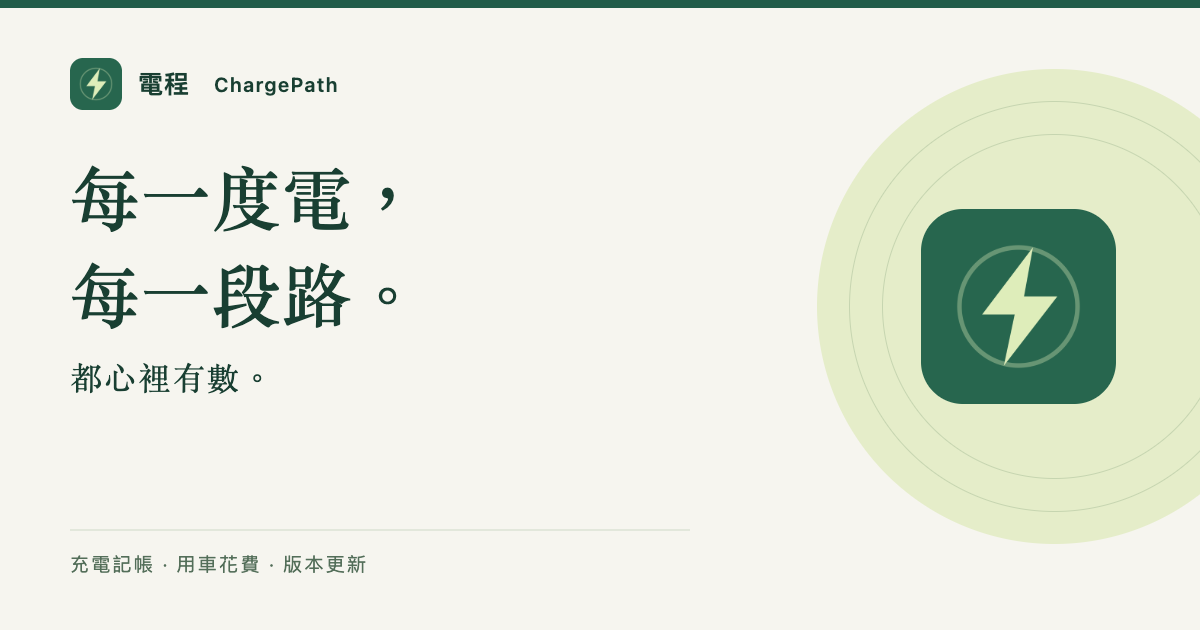
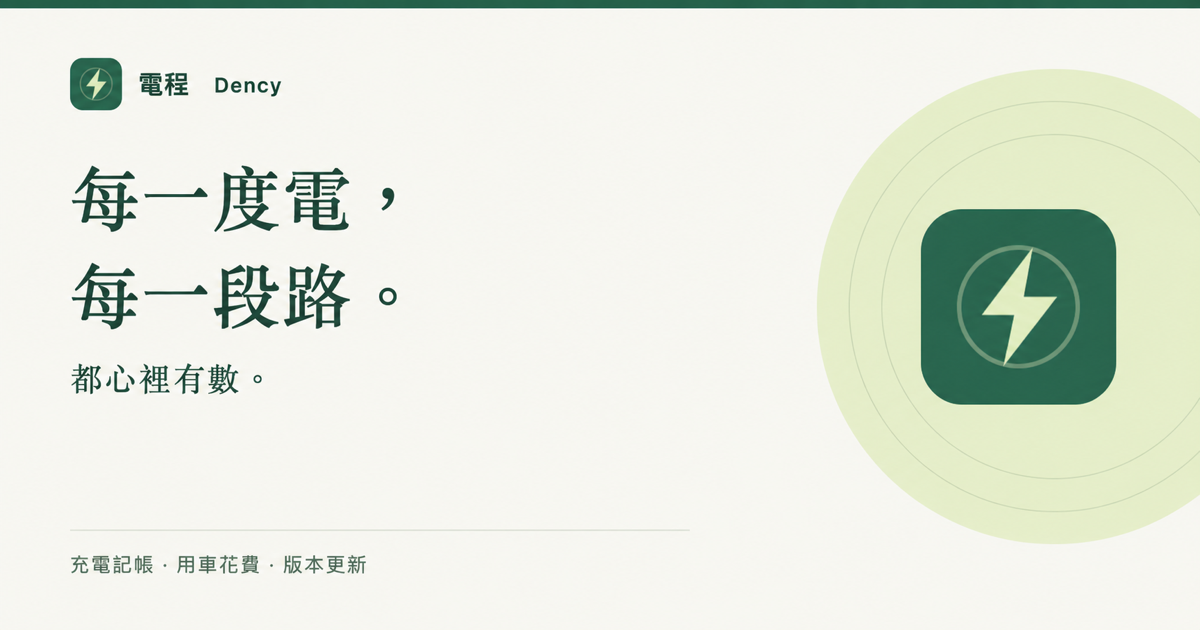
docs: rename support site brand to Dency

diff --git a/index.html b/index.html
@@ -4,21 +4,21 @@
   <meta charset="utf-8">
   <meta name="viewport" content="width=device-width, initial-scale=1">
   <meta name="theme-color" content="#215c49">
-  <meta name="description" content="電程 ChargePath，專為電動車生活打造的記帳 App。輕鬆記錄充電與用車花費，前往 App Store 下載，讓每一段路都心裡有數。">
-  <title>電程 ChargePath｜電動車生活的隨身帳本</title>
-  <meta property="og:title" content="電程 ChargePath｜電動車生活的隨身帳本">
+  <meta name="description" content="電程 Dency，專為電動車生活打造的記帳 App。輕鬆記錄充電與用車花費，前往 App Store 下載，讓每一段路都心裡有數。">
+  <title>電程 Dency｜電動車生活的隨身帳本</title>
+  <meta property="og:title" content="電程 Dency｜電動車生活的隨身帳本">
   <meta property="og:description" content="記錄充電與用車花費，讓每一段路，都心裡有數。立即前往 App Store 下載。">
   <meta property="og:image" content="https://amonstudioapp.github.io/chargepath-support/assets/chargepath-share-v1.png">
   <meta property="og:image:secure_url" content="https://amonstudioapp.github.io/chargepath-support/assets/chargepath-share-v1.png">
   <meta property="og:image:type" content="image/png">
   <meta property="og:image:width" content="1200">
   <meta property="og:image:height" content="630">
-  <meta property="og:image:alt" content="電程 ChargePath：每一度電，每一段路，都心裡有數。">
-  <meta property="og:site_name" content="電程 ChargePath">
+  <meta property="og:image:alt" content="電程 Dency：每一度電，每一段路，都心裡有數。">
+  <meta property="og:site_name" content="電程 Dency">
   <meta property="og:locale" content="zh_TW">
   <meta name="twitter:card" content="summary_large_image">
   <meta name="twitter:image" content="https://amonstudioapp.github.io/chargepath-support/assets/chargepath-share-v1.png">
-  <meta name="twitter:image:alt" content="電程 ChargePath：每一度電，每一段路，都心裡有數。">
+  <meta name="twitter:image:alt" content="電程 Dency：每一度電，每一段路，都心裡有數。">
   <meta property="og:url" content="https://amonstudioapp.github.io/chargepath-support/">
   <meta property="og:type" content="website">
   <link rel="canonical" href="https://amonstudioapp.github.io/chargepath-support/">
@@ -30,7 +30,7 @@
 <body class="home-page">
   <a class="skip" href="#main">跳至主要內容</a>
   <header class="header wrap">
-    <a class="brand" href="./" aria-label="電程 ChargePath 支援首頁"><img src="assets/app-icon.png" width="44" height="44" alt=""><span>電程 <span class="wordmark">ChargePath</span></span></a>
+    <a class="brand" href="./" aria-label="電程 Dency 支援首頁"><img src="assets/app-icon.png" width="44" height="44" alt=""><span>電程 <span class="wordmark">Dency</span></span></a>
     <nav aria-label="主要導覽"><a href="updates/">版本更新</a><a href="#faq">常見問題</a><a href="#contact">聯絡我們</a><a class="nav-download" href="https://apps.apple.com/tw/app/id6809342215" aria-label="在 App Store 下載電程">下載 App <span aria-hidden="true">↗</span></a></nav>
   </header>
   <main id="main">
@@ -38,9 +38,9 @@
       <div class="download-copy">
         <p class="eyebrow">YOUR EVERYDAY EV COMPANION</p>
         <h1 id="hero-title">讓每一段路，<br>都心裡有數。</h1>
-        <p class="download-intro">電程 ChargePath 是一款專為電動車生活打造的記帳 App，讓充電與用車花費的紀錄變得簡單直覺，陪你輕鬆掌握日常開銷。</p>
+        <p class="download-intro">電程 Dency 是一款專為電動車生活打造的記帳 App，讓充電與用車花費的紀錄變得簡單直覺，陪你輕鬆掌握日常開銷。</p>
         <div class="download-actions">
-          <a class="store-download" href="https://apps.apple.com/tw/app/id6809342215" aria-label="在 App Store 下載電程 ChargePath">
+          <a class="store-download" href="https://apps.apple.com/tw/app/id6809342215" aria-label="在 App Store 下載電程 Dency">
             <svg width="24" height="30" viewBox="0 0 24 30" fill="none" aria-hidden="true"><rect x="3" y="1" width="18" height="28" rx="4" stroke="currentColor" stroke-width="1.6"/><path d="M9 5h6M10 25h4M12 10v9m-4-4 4 4 4-4" stroke="currentColor" stroke-width="1.6" stroke-linecap="round" stroke-linejoin="round"/></svg>
             <span><span class="store-kicker">立即下載電程</span><span class="store-name">前往 App Store</span></span><span class="store-arrow" aria-hidden="true">↗</span>
           </a>
@@ -51,7 +51,7 @@
       </div>
       <figure class="app-preview">
         <div class="preview-orbit" aria-hidden="true"></div>
-        <div class="preview-brand"><img src="assets/app-icon.png" width="42" height="42" alt=""><div>電程<span>ChargePath</span></div></div>
+        <div class="preview-brand"><img src="assets/app-icon.png" width="42" height="42" alt=""><div>電程<span>Dency</span></div></div>
         <div class="phone-preview"><img src="assets/app-overview.png" width="1206" height="2622" alt="電程 App 總覽：本月支出、充電量與預算集中顯示，畫面使用示範資料。" fetchpriority="high"></div>
         <figcaption>用車日常，一眼掌握。</figcaption>
       </figure>
@@ -114,6 +114,6 @@
       <div><ol><li>你遇到的問題，以及操作步驟</li><li>預期的結果，以及實際發生的情況</li><li>電程版本、iOS 版本與 iPhone 機型</li><li>必要時附上已遮蔽個人資料的截圖</li></ol><p class="muted">請勿寄送密碼、完整信用卡資料或不必要的完整帳本。</p><a class="text-link" href="mailto:amonstudioapp@gmail.com">寄信至 amonstudioapp@gmail.com ↗</a></div>
     </section>
   </main>
-  <footer class="footer wrap"><a class="brand" href="./">電程 <span class="wordmark">ChargePath</span></a><p>每一度電，每一段路，都心裡有數。</p><div><a href="privacy.html">隱私權政策</a><a href="https://www.apple.com/legal/internet-services/itunes/dev/stdeula/">使用條款</a><a href="mailto:amonstudioapp@gmail.com">聯絡我們</a></div><small>© 2026 電程 ChargePath</small></footer>
+  <footer class="footer wrap"><a class="brand" href="./">電程 <span class="wordmark">Dency</span></a><p>每一度電，每一段路，都心裡有數。</p><div><a href="privacy.html">隱私權政策</a><a href="https://www.apple.com/legal/internet-services/itunes/dev/stdeula/">使用條款</a><a href="mailto:amonstudioapp@gmail.com">聯絡我們</a></div><small>© 2026 電程 Dency</small></footer>
 </body>
 </html>

diff --git a/updates/index.html b/updates/index.html
@@ -4,9 +4,9 @@
   <meta charset="utf-8">
   <meta name="viewport" content="width=device-width, initial-scale=1">
   <meta name="theme-color" content="#215c49">
-  <meta name="description" content="電程 ChargePath 更新日誌。看看每一次更新帶來的新功能、體驗改善與修正，讓充電記帳與用車生活更從容。">
+  <meta name="description" content="電程 Dency 更新日誌。看看每一次更新帶來的新功能、體驗改善與修正，讓充電記帳與用車生活更從容。">
   <meta property="og:type" content="website">
-  <meta property="og:title" content="更新日誌｜電程 ChargePath">
+  <meta property="og:title" content="更新日誌｜電程 Dency">
   <meta property="og:description" content="每一次更新，讓用車更從容。閱讀電程各版本的新功能與完整更新說明。">
   <meta property="og:url" content="https://amonstudioapp.github.io/chargepath-support/updates/">
   <meta property="og:image" content="https://amonstudioapp.github.io/chargepath-support/assets/updates/1.1.0-v1.png">
@@ -14,13 +14,13 @@
   <meta property="og:image:type" content="image/png">
   <meta property="og:image:width" content="1200">
   <meta property="og:image:height" content="630">
-  <meta property="og:image:alt" content="電程 ChargePath 版本更新 1.1.0">
-  <meta property="og:site_name" content="電程 ChargePath">
+  <meta property="og:image:alt" content="電程 Dency 版本更新 1.1.0">
+  <meta property="og:site_name" content="電程 Dency">
   <meta property="og:locale" content="zh_TW">
   <meta name="twitter:card" content="summary_large_image">
   <meta name="twitter:image" content="https://amonstudioapp.github.io/chargepath-support/assets/updates/1.1.0-v1.png">
-  <meta name="twitter:image:alt" content="電程 ChargePath 版本更新 1.1.0">
-  <title>更新日誌｜電程 ChargePath</title>
+  <meta name="twitter:image:alt" content="電程 Dency 版本更新 1.1.0">
+  <title>更新日誌｜電程 Dency</title>
   <link rel="canonical" href="https://amonstudioapp.github.io/chargepath-support/updates/">
   <link rel="icon" href="../assets/app-icon.png">
   <link rel="stylesheet" href="../styles.css">
@@ -30,16 +30,16 @@
 <body class="updates-page">
   <a class="skip" href="#main">跳至主要內容</a>
   <header class="header wrap">
-    <a class="brand" href="../" aria-label="電程 ChargePath 支援首頁"><img src="../assets/app-icon.png" width="44" height="44" alt=""><span>電程 <span class="wordmark">ChargePath</span></span></a>
+    <a class="brand" href="../" aria-label="電程 Dency 支援首頁"><img src="../assets/app-icon.png" width="44" height="44" alt=""><span>電程 <span class="wordmark">Dency</span></span></a>
     <nav aria-label="主要導覽"><a href="./" aria-current="page">版本更新</a><a href="../#faq">常見問題</a><a href="../privacy.html">隱私權</a></nav>
   </header>
   <main id="main" class="wrap">
     <section class="journal-intro" aria-labelledby="journal-title">
-      <div><p class="eyebrow">THE CHARGEPATH JOURNAL</p><h1 id="journal-title">每一次更新，<br>讓用車更從容。</h1></div>
+      <div><p class="eyebrow">THE DENCY JOURNAL</p><h1 id="journal-title">每一次更新，<br>讓用車更從容。</h1></div>
       <div class="journal-letter"><span class="letter-line" aria-hidden="true"></span><p>從第一筆充電，到每一天的用車日常，<br class="desktop-break">電程持續把細節做好。</p><p>新功能、體驗改善與修正，<br class="desktop-break">都在這裡，慢慢累積。</p><a class="text-link" href="#all-releases">瀏覽所有版本 <span aria-hidden="true">↓</span></a></div>
     </section>
     <section class="latest-release" aria-labelledby="latest-title">
-      <div class="release-edition"><span class="edition-label">最新版本</span><div><span class="edition-caption">CHARGEPATH</span><p class="edition-number">1.1.0</p></div><span class="edition-date">2026 年 10 月 5 日</span></div>
+      <div class="release-edition"><span class="edition-label">最新版本</span><div><span class="edition-caption">DENCY</span><p class="edition-number">1.1.0</p></div><span class="edition-date">2026 年 10 月 5 日</span></div>
       <div class="latest-copy"><p class="eyebrow">WHAT’S NEW</p><h2 id="latest-title">充電記帳與用車分析，更完整了。</h2><p class="latest-summary">電程 1.1.0，讓充電記帳與用車分析更完整。</p><a class="button" href="./1.1.0/">閱讀完整更新 <span aria-hidden="true">↗</span></a></div>
     </section>
     <div class="highlights latest-highlights"><div class="highlight"><span class="highlight-number">01</span><h3>截圖，批次變成紀錄</h3><p>一次整理多張充電截圖，辨識後逐筆核對，減少重複輸入。</p></div>
@@ -52,6 +52,6 @@
     </section>
     <aside class="feedback-note"><p class="eyebrow">MADE BETTER, TOGETHER</p><h2>你的日常，是我們改進的方向。</h2><p>有期待的功能，或使用上不順手的地方？<a href="../#contact">和我們聊聊 <span aria-hidden="true">↗</span></a></p></aside>
   </main>
-  <footer class="footer wrap"><a class="brand" href="../">電程 <span class="wordmark">ChargePath</span></a><p>每一度電，每一段路，都心裡有數。</p><div><a href="../">支援中心</a><a href="../privacy.html">隱私權政策</a><a href="mailto:amonstudioapp@gmail.com">聯絡我們</a></div><small>© 2026 電程 ChargePath</small></footer>
+  <footer class="footer wrap"><a class="brand" href="../">電程 <span class="wordmark">Dency</span></a><p>每一度電，每一段路，都心裡有數。</p><div><a href="../">支援中心</a><a href="../privacy.html">隱私權政策</a><a href="mailto:amonstudioapp@gmail.com">聯絡我們</a></div><small>© 2026 電程 Dency</small></footer>
 </body>
 </html>

diff --git a/templates/updates-index.html b/templates/updates-index.html
@@ -4,9 +4,9 @@
   <meta charset="utf-8">
   <meta name="viewport" content="width=device-width, initial-scale=1">
   <meta name="theme-color" content="#215c49">
-  <meta name="description" content="電程 ChargePath 更新日誌。看看每一次更新帶來的新功能、體驗改善與修正，讓充電記帳與用車生活更從容。">
+  <meta name="description" content="電程 Dency 更新日誌。看看每一次更新帶來的新功能、體驗改善與修正，讓充電記帳與用車生活更從容。">
   <meta property="og:type" content="website">
-  <meta property="og:title" content="更新日誌｜電程 ChargePath">
+  <meta property="og:title" content="更新日誌｜電程 Dency">
   <meta property="og:description" content="每一次更新，讓用車更從容。閱讀電程各版本的新功能與完整更新說明。">
   <meta property="og:url" content="https://amonstudioapp.github.io/chargepath-support/updates/">
   <meta property="og:image" content="https://amonstudioapp.github.io/chargepath-support/assets/updates/$latest_version-v1.png">
@@ -14,13 +14,13 @@
   <meta property="og:image:type" content="image/png">
   <meta property="og:image:width" content="1200">
   <meta property="og:image:height" content="630">
-  <meta property="og:image:alt" content="電程 ChargePath 版本更新 $latest_version">
-  <meta property="og:site_name" content="電程 ChargePath">
+  <meta property="og:image:alt" content="電程 Dency 版本更新 $latest_version">
+  <meta property="og:site_name" content="電程 Dency">
   <meta property="og:locale" content="zh_TW">
   <meta name="twitter:card" content="summary_large_image">
   <meta name="twitter:image" content="https://amonstudioapp.github.io/chargepath-support/assets/updates/$latest_version-v1.png">
-  <meta name="twitter:image:alt" content="電程 ChargePath 版本更新 $latest_version">
-  <title>更新日誌｜電程 ChargePath</title>
+  <meta name="twitter:image:alt" content="電程 Dency 版本更新 $latest_version">
+  <title>更新日誌｜電程 Dency</title>
   <link rel="canonical" href="https://amonstudioapp.github.io/chargepath-support/updates/">
   <link rel="icon" href="../assets/app-icon.png">
   <link rel="stylesheet" href="../styles.css">
@@ -30,16 +30,16 @@
 <body class="updates-page">
   <a class="skip" href="#main">跳至主要內容</a>
   <header class="header wrap">
-    <a class="brand" href="../" aria-label="電程 ChargePath 支援首頁"><img src="../assets/app-icon.png" width="44" height="44" alt=""><span>電程 <span class="wordmark">ChargePath</span></span></a>
+    <a class="brand" href="../" aria-label="電程 Dency 支援首頁"><img src="../assets/app-icon.png" width="44" height="44" alt=""><span>電程 <span class="wordmark">Dency</span></span></a>
     <nav aria-label="主要導覽"><a href="./" aria-current="page">版本更新</a><a href="../#faq">常見問題</a><a href="../privacy.html">隱私權</a></nav>
   </header>
   <main id="main" class="wrap">
     <section class="journal-intro" aria-labelledby="journal-title">
-      <div><p class="eyebrow">THE CHARGEPATH JOURNAL</p><h1 id="journal-title">每一次更新，<br>讓用車更從容。</h1></div>
+      <div><p class="eyebrow">THE DENCY JOURNAL</p><h1 id="journal-title">每一次更新，<br>讓用車更從容。</h1></div>
       <div class="journal-letter"><span class="letter-line" aria-hidden="true"></span><p>從第一筆充電，到每一天的用車日常，<br class="desktop-break">電程持續把細節做好。</p><p>新功能、體驗改善與修正，<br class="desktop-break">都在這裡，慢慢累積。</p><a class="text-link" href="#all-releases">瀏覽所有版本 <span aria-hidden="true">↓</span></a></div>
     </section>
     <section class="latest-release" aria-labelledby="latest-title">
-      <div class="release-edition"><span class="edition-label">最新版本</span><div><span class="edition-caption">CHARGEPATH</span><p class="edition-number">$latest_version</p></div><span class="edition-date">$latest_date</span></div>
+      <div class="release-edition"><span class="edition-label">最新版本</span><div><span class="edition-caption">DENCY</span><p class="edition-number">$latest_version</p></div><span class="edition-date">$latest_date</span></div>
       <div class="latest-copy"><p class="eyebrow">WHAT’S NEW</p><h2 id="latest-title">$latest_title</h2><p class="latest-summary">$latest_summary</p><a class="button" href="$latest_url">閱讀完整更新 <span aria-hidden="true">↗</span></a></div>
     </section>
     <div class="highlights latest-highlights">$latest_highlights</div>
@@ -49,6 +49,6 @@
     </section>
     <aside class="feedback-note"><p class="eyebrow">MADE BETTER, TOGETHER</p><h2>你的日常，是我們改進的方向。</h2><p>有期待的功能，或使用上不順手的地方？<a href="../#contact">和我們聊聊 <span aria-hidden="true">↗</span></a></p></aside>
   </main>
-  <footer class="footer wrap"><a class="brand" href="../">電程 <span class="wordmark">ChargePath</span></a><p>每一度電，每一段路，都心裡有數。</p><div><a href="../">支援中心</a><a href="../privacy.html">隱私權政策</a><a href="mailto:amonstudioapp@gmail.com">聯絡我們</a></div><small>© 2026 電程 ChargePath</small></footer>
+  <footer class="footer wrap"><a class="brand" href="../">電程 <span class="wordmark">Dency</span></a><p>每一度電，每一段路，都心裡有數。</p><div><a href="../">支援中心</a><a href="../privacy.html">隱私權政策</a><a href="mailto:amonstudioapp@gmail.com">聯絡我們</a></div><small>© 2026 電程 Dency</small></footer>
 </body>
 </html>

diff --git a/privacy.html b/privacy.html
@@ -4,20 +4,20 @@
   <meta charset="utf-8">
   <meta name="viewport" content="width=device-width, initial-scale=1">
   <meta name="theme-color" content="#215c49">
-  <meta name="description" content="電程 ChargePath 隱私權政策：本機帳本、iCloud、共同管理、截圖辨識、訂閱與問題回報的資料處理說明。">
-  <title>隱私權政策｜電程 ChargePath</title>
+  <meta name="description" content="電程 Dency 隱私權政策：本機帳本、iCloud、共同管理、截圖辨識、訂閱與問題回報的資料處理說明。">
+  <title>隱私權政策｜電程 Dency</title>
   <link rel="icon" href="assets/app-icon.png">
   <link rel="stylesheet" href="styles.css">
   <link rel="stylesheet" href="updates.css">
 </head>
 <body>
   <a class="skip" href="#main">跳至主要內容</a>
-  <header class="header wrap"><a class="brand" href="./" aria-label="電程 ChargePath 支援首頁"><img src="assets/app-icon.png" width="44" height="44" alt=""><span>電程 <span class="wordmark">ChargePath</span></span></a><nav aria-label="主要導覽"><a href="updates/">版本更新</a><a href="./#faq">常見問題</a><a href="privacy.html" aria-current="page">隱私權</a><a href="./#contact">聯絡我們</a></nav></header>
+  <header class="header wrap"><a class="brand" href="./" aria-label="電程 Dency 支援首頁"><img src="assets/app-icon.png" width="44" height="44" alt=""><span>電程 <span class="wordmark">Dency</span></span></a><nav aria-label="主要導覽"><a href="updates/">版本更新</a><a href="./#faq">常見問題</a><a href="privacy.html" aria-current="page">隱私權</a><a href="./#contact">聯絡我們</a></nav></header>
   <main id="main" class="policy wrap">
     <a class="back" href="./">← 返回支援中心</a>
     <p class="eyebrow">YOUR DATA, YOUR CHOICE</p>
     <h1>隱私權政策</h1>
-    <p>電程 ChargePath · 更新日期：2026 年 9 月 26 日</p>
+    <p>電程 Dency · 更新日期：2026 年 9 月 26 日</p>
     <p class="lead">電程以記錄充電與用車生活為目的，不需註冊電程帳號，沒有廣告，也不使用第三方廣告追蹤或行為分析 SDK。</p>
     <div class="policy-note">你的帳本預設保存在裝置內。只有在你選擇啟用 iCloud、共同管理、匯出或寄送回饋時，相關資料才會依該功能傳送。</div>
     <section><h2>資料儲存</h2><p>你輸入的車輛、充電、支出、里程、個人稱呼與相關照片，預設儲存在裝置內，用於帳本、統計、提醒與你選擇使用的功能。</p><p>電程不會自動將帳本傳送給開發者。裝置本身的系統備份由你的 Apple 設定管理。</p></section>
@@ -31,6 +31,6 @@
     <section><h2>支援網站</h2><p>本支援網站不設登入、不使用分析或廣告追蹤程式，也不透過表單收集帳本資料。網站由 GitHub Pages 提供託管；GitHub 可能依其服務及隱私權政策處理 IP 位址等連線資訊。請參閱 <a href="https://docs.github.com/en/site-policy/privacy-policies/github-general-privacy-statement">GitHub 隱私權聲明</a>。</p></section>
     <section><h2>聯絡我們</h2><p>如對本政策或資料處理有疑問，或要提出回饋資料刪除請求，請來信：<a href="mailto:amonstudioapp@gmail.com">amonstudioapp@gmail.com</a>。</p></section>
   </main>
-  <footer class="footer wrap"><a class="brand" href="./">電程 <span class="wordmark">ChargePath</span></a><p>每一度電，每一段路，都心裡有數。</p><div><a href="./">支援中心</a><a href="https://www.apple.com/legal/internet-services/itunes/dev/stdeula/">使用條款</a><a href="mailto:amonstudioapp@gmail.com">聯絡我們</a></div><small>© 2026 電程 ChargePath</small></footer>
+  <footer class="footer wrap"><a class="brand" href="./">電程 <span class="wordmark">Dency</span></a><p>每一度電，每一段路，都心裡有數。</p><div><a href="./">支援中心</a><a href="https://www.apple.com/legal/internet-services/itunes/dev/stdeula/">使用條款</a><a href="mailto:amonstudioapp@gmail.com">聯絡我們</a></div><small>© 2026 電程 Dency</small></footer>
 </body>
 </html>

diff --git a/updates/1.1.0/index.html b/updates/1.1.0/index.html
@@ -15,12 +15,12 @@
   <meta property="og:image:type" content="image/png">
   <meta property="og:image:width" content="1200">
   <meta property="og:image:height" content="630">
-  <meta property="og:image:alt" content="電程 ChargePath 版本更新 1.1.0">
-  <meta property="og:site_name" content="電程 ChargePath">
+  <meta property="og:image:alt" content="電程 Dency 版本更新 1.1.0">
+  <meta property="og:site_name" content="電程 Dency">
   <meta property="og:locale" content="zh_TW">
   <meta name="twitter:card" content="summary_large_image">
   <meta name="twitter:image" content="https://amonstudioapp.github.io/chargepath-support/assets/updates/1.1.0-v1.png">
-  <meta name="twitter:image:alt" content="電程 ChargePath 版本更新 1.1.0">
+  <meta name="twitter:image:alt" content="電程 Dency 版本更新 1.1.0">
   <title>電程 1.1.0｜充電記帳與用車分析，更完整了。</title>
   <link rel="canonical" href="https://amonstudioapp.github.io/chargepath-support/updates/1.1.0/">
   <link rel="icon" href="../../assets/app-icon.png">
@@ -30,7 +30,7 @@
 </head>
 <body class="updates-page detail-page">
   <a class="skip" href="#main">跳至主要內容</a>
-  <header class="header wrap"><a class="brand" href="../../" aria-label="電程 ChargePath 支援首頁"><img src="../../assets/app-icon.png" width="44" height="44" alt=""><span>電程 <span class="wordmark">ChargePath</span></span></a><nav aria-label="主要導覽"><a href="../">版本更新</a><a href="../../#faq">常見問題</a><a href="../../privacy.html">隱私權</a></nav></header>
+  <header class="header wrap"><a class="brand" href="../../" aria-label="電程 Dency 支援首頁"><img src="../../assets/app-icon.png" width="44" height="44" alt=""><span>電程 <span class="wordmark">Dency</span></span></a><nav aria-label="主要導覽"><a href="../">版本更新</a><a href="../../#faq">常見問題</a><a href="../../privacy.html">隱私權</a></nav></header>
   <main id="main" class="wrap">
     <a class="back-to-journal" href="../">← 所有版本更新</a>
     <article>
@@ -41,6 +41,6 @@
     <nav class="version-navigation" aria-label="其他版本"><a href="../1.0.0/">上一個版本 · v1.0.0</a> </nav>
     <aside class="feedback-note"><p class="eyebrow">YOUR VOICE MATTERS</p><h2>一起，讓電程更好用。</h2><p>想分享使用心得，或遇到需要協助的地方？<a href="../../#contact">聯絡我們 <span aria-hidden="true">↗</span></a></p></aside>
   </main>
-  <footer class="footer wrap"><a class="brand" href="../../">電程 <span class="wordmark">ChargePath</span></a><p>每一度電，每一段路，都心裡有數。</p><div><a href="../">所有版本</a><a href="../../privacy.html">隱私權政策</a><a href="../../">支援中心</a></div><small>© 2026 電程 ChargePath</small></footer>
+  <footer class="footer wrap"><a class="brand" href="../../">電程 <span class="wordmark">Dency</span></a><p>每一度電，每一段路，都心裡有數。</p><div><a href="../">所有版本</a><a href="../../privacy.html">隱私權政策</a><a href="../../">支援中心</a></div><small>© 2026 電程 Dency</small></footer>
 </body>
 </html>

diff --git a/updates/1.0.0/index.html b/updates/1.0.0/index.html
@@ -15,12 +15,12 @@
   <meta property="og:image:type" content="image/png">
   <meta property="og:image:width" content="1200">
   <meta property="og:image:height" content="630">
-  <meta property="og:image:alt" content="電程 ChargePath 版本更新 1.0.0">
-  <meta property="og:site_name" content="電程 ChargePath">
+  <meta property="og:image:alt" content="電程 Dency 版本更新 1.0.0">
+  <meta property="og:site_name" content="電程 Dency">
   <meta property="og:locale" content="zh_TW">
   <meta name="twitter:card" content="summary_large_image">
   <meta name="twitter:image" content="https://amonstudioapp.github.io/chargepath-support/assets/updates/1.0.0-v1.png">
-  <meta name="twitter:image:alt" content="電程 ChargePath 版本更新 1.0.0">
+  <meta name="twitter:image:alt" content="電程 Dency 版本更新 1.0.0">
   <title>電程 1.0.0｜用車生活，從第一筆紀錄開始。</title>
   <link rel="canonical" href="https://amonstudioapp.github.io/chargepath-support/updates/1.0.0/">
   <link rel="icon" href="../../assets/app-icon.png">
@@ -30,7 +30,7 @@
 </head>
 <body class="updates-page detail-page">
   <a class="skip" href="#main">跳至主要內容</a>
-  <header class="header wrap"><a class="brand" href="../../" aria-label="電程 ChargePath 支援首頁"><img src="../../assets/app-icon.png" width="44" height="44" alt=""><span>電程 <span class="wordmark">ChargePath</span></span></a><nav aria-label="主要導覽"><a href="../">版本更新</a><a href="../../#faq">常見問題</a><a href="../../privacy.html">隱私權</a></nav></header>
+  <header class="header wrap"><a class="brand" href="../../" aria-label="電程 Dency 支援首頁"><img src="../../assets/app-icon.png" width="44" height="44" alt=""><span>電程 <span class="wordmark">Dency</span></span></a><nav aria-label="主要導覽"><a href="../">版本更新</a><a href="../../#faq">常見問題</a><a href="../../privacy.html">隱私權</a></nav></header>
   <main id="main" class="wrap">
     <a class="back-to-journal" href="../">← 所有版本更新</a>
     <article>
@@ -41,6 +41,6 @@
     <nav class="version-navigation" aria-label="其他版本"> <a href="../1.1.0/">下一個版本 · v1.1.0</a></nav>
     <aside class="feedback-note"><p class="eyebrow">YOUR VOICE MATTERS</p><h2>一起，讓電程更好用。</h2><p>想分享使用心得，或遇到需要協助的地方？<a href="../../#contact">聯絡我們 <span aria-hidden="true">↗</span></a></p></aside>
   </main>
-  <footer class="footer wrap"><a class="brand" href="../../">電程 <span class="wordmark">ChargePath</span></a><p>每一度電，每一段路，都心裡有數。</p><div><a href="../">所有版本</a><a href="../../privacy.html">隱私權政策</a><a href="../../">支援中心</a></div><small>© 2026 電程 ChargePath</small></footer>
+  <footer class="footer wrap"><a class="brand" href="../../">電程 <span class="wordmark">Dency</span></a><p>每一度電，每一段路，都心裡有數。</p><div><a href="../">所有版本</a><a href="../../privacy.html">隱私權政策</a><a href="../../">支援中心</a></div><small>© 2026 電程 Dency</small></footer>
 </body>
 </html>

diff --git a/templates/update-detail.html b/templates/update-detail.html
@@ -14,12 +14,12 @@
   <meta property="og:image:type" content="image/png">
   <meta property="og:image:width" content="1200">
   <meta property="og:image:height" content="630">
-  <meta property="og:image:alt" content="電程 ChargePath 版本更新 $version">
-  <meta property="og:site_name" content="電程 ChargePath">
+  <meta property="og:image:alt" content="電程 Dency 版本更新 $version">
+  <meta property="og:site_name" content="電程 Dency">
   <meta property="og:locale" content="zh_TW">
   <meta name="twitter:card" content="summary_large_image">
   <meta name="twitter:image" content="https://amonstudioapp.github.io/chargepath-support/assets/updates/$version-v1.png">
-  <meta name="twitter:image:alt" content="電程 ChargePath 版本更新 $version">
+  <meta name="twitter:image:alt" content="電程 Dency 版本更新 $version">
   <title>電程 $version｜$title</title>
   <link rel="canonical" href="$canonical">
   <link rel="icon" href="../../assets/app-icon.png">
@@ -29,7 +29,7 @@
 </head>
 <body class="updates-page detail-page">
   <a class="skip" href="#main">跳至主要內容</a>
-  <header class="header wrap"><a class="brand" href="../../" aria-label="電程 ChargePath 支援首頁"><img src="../../assets/app-icon.png" width="44" height="44" alt=""><span>電程 <span class="wordmark">ChargePath</span></span></a><nav aria-label="主要導覽"><a href="../">版本更新</a><a href="../../#faq">常見問題</a><a href="../../privacy.html">隱私權</a></nav></header>
+  <header class="header wrap"><a class="brand" href="../../" aria-label="電程 Dency 支援首頁"><img src="../../assets/app-icon.png" width="44" height="44" alt=""><span>電程 <span class="wordmark">Dency</span></span></a><nav aria-label="主要導覽"><a href="../">版本更新</a><a href="../../#faq">常見問題</a><a href="../../privacy.html">隱私權</a></nav></header>
   <main id="main" class="wrap">
     <a class="back-to-journal" href="../">← 所有版本更新</a>
     <article>
@@ -39,6 +39,6 @@
     <nav class="version-navigation" aria-label="其他版本">$previous_link $next_link</nav>
     <aside class="feedback-note"><p class="eyebrow">YOUR VOICE MATTERS</p><h2>一起，讓電程更好用。</h2><p>想分享使用心得，或遇到需要協助的地方？<a href="../../#contact">聯絡我們 <span aria-hidden="true">↗</span></a></p></aside>
   </main>
-  <footer class="footer wrap"><a class="brand" href="../../">電程 <span class="wordmark">ChargePath</span></a><p>每一度電，每一段路，都心裡有數。</p><div><a href="../">所有版本</a><a href="../../privacy.html">隱私權政策</a><a href="../../">支援中心</a></div><small>© 2026 電程 ChargePath</small></footer>
+  <footer class="footer wrap"><a class="brand" href="../../">電程 <span class="wordmark">Dency</span></a><p>每一度電，每一段路，都心裡有數。</p><div><a href="../">所有版本</a><a href="../../privacy.html">隱私權政策</a><a href="../../">支援中心</a></div><small>© 2026 電程 Dency</small></footer>
 </body>
 </html>

diff --git a/templates/share-card.html b/templates/share-card.html
@@ -3,11 +3,11 @@
 <head>
 <meta charset="utf-8">
 <meta name="viewport" content="width=device-width, initial-scale=1">
-<title>電程 ChargePath 分享圖片</title>
+<title>電程 Dency 分享圖片</title>
 <link rel="icon" href="../assets/app-icon.png">
 <style>
 *{box-sizing:border-box}html,body{margin:0;width:1200px;height:630px;overflow:hidden}body{background:#f6f5ef;color:#193f32;font-family:-apple-system,BlinkMacSystemFont,"PingFang TC",sans-serif;position:relative;padding:58px 70px}.brand{display:flex;align-items:center;gap:16px;font-size:25px;font-weight:600;letter-spacing:.04em}.brand img{width:52px;height:52px;border-radius:13px}.brand span{font-size:20px;letter-spacing:.08em;margin-left:8px}h1{font-family:"Songti TC","Noto Serif TC",serif;font-size:69px;line-height:1.4;font-weight:600;letter-spacing:.025em;margin:37px 0 14px}p{font-family:"Songti TC","Noto Serif TC",serif;font-size:32px;margin:0;letter-spacing:.07em}.meta{position:absolute;bottom:53px;left:70px;font-size:19px;letter-spacing:.12em;color:#536e59;border-top:1px solid #ced8c8;padding-top:20px;width:620px}.art{position:absolute;right:-92px;top:69px;width:475px;height:475px;border-radius:50%;background:#e5edc9;display:grid;place-items:center}.art::before,.art::after{content:"";position:absolute;inset:32px;border:1px solid #93ad8760;border-radius:50%}.art::after{inset:65px}.art img{width:195px;height:195px;border-radius:42px;margin-right:72px;position:relative;z-index:1}.line{position:absolute;left:0;top:0;width:100%;height:8px;background:#215c49}
 </style>
 </head>
-<body><div class="line"></div><div class="brand"><img src="../assets/app-icon.png" alt="">電程 <span>ChargePath</span></div><h1>每一度電，<br>每一段路。</h1><p>都心裡有數。</p><div class="meta">充電記帳 · 用車花費 · 版本更新</div><div class="art"><img src="../assets/app-icon.png" alt=""></div></body>
+<body><div class="line"></div><div class="brand"><img src="../assets/app-icon.png" alt="">電程 <span>Dency</span></div><h1>每一度電，<br>每一段路。</h1><p>都心裡有數。</p><div class="meta">充電記帳 · 用車花費 · 版本更新</div><div class="art"><img src="../assets/app-icon.png" alt=""></div></body>
 </html>

diff --git a/scripts/build_updates.py b/scripts/build_updates.py
@@ -1,5 +1,5 @@
 #!/usr/bin/env python3
-"""Build versioned Chargepath update pages using only the Python standard library."""
+"""Build versioned Dency update pages using only the Python standard library."""
 import argparse
 from datetime import date, datetime, timezone
 from email.utils import format_datetime
@@ -124,7 +124,7 @@ def render_feed(releases):
                      f'<guid isPermaLink="true">{url}</guid><pubDate>{published}</pubDate>'
                      f'<description>{escape(release["summary"])}</description></item>')
     return ('<?xml version="1.0" encoding="UTF-8"?>\n<rss version="2.0"><channel>'
-            '<title>電程 ChargePath 更新日誌</title>'
+            '<title>電程 Dency 更新日誌</title>'
             f'<link>{BASE_URL}/updates/</link><description>電程 App 最新功能與版本更新</description>'
             '<language>zh-TW</language>' + ''.join(items) + '</channel></rss>\n')
 

diff --git a/tests/test_social_metadata.py b/tests/test_social_metadata.py
@@ -49,7 +49,7 @@ class SocialMetadataTests(unittest.TestCase):
             "og:image:width": "1200",
             "og:image:height": "630",
             "og:image:type": "image/png",
-            "og:site_name": "電程 ChargePath",
+            "og:site_name": "電程 Dency",
             "og:locale": "zh_TW",
             "twitter:card": "summary_large_image",
         }

diff --git a/scripts/sync_app_store.py b/scripts/sync_app_store.py
@@ -1,5 +1,5 @@
 #!/usr/bin/env python3
-"""Import only a newly published Chargepath version from Apple's Taiwan listing."""
+"""Import only a newly published Dency version from Apple's Taiwan listing."""
 import argparse
 from datetime import datetime
 import json

diff --git a/scripts/build_share_cards.py b/scripts/build_share_cards.py
@@ -1,5 +1,5 @@
 #!/usr/bin/env python3
-"""Build deterministic version-number share cards from the ChargePath brand base."""
+"""Build deterministic version-number share cards from the Dency brand base."""
 import argparse
 from io import BytesIO
 import json
